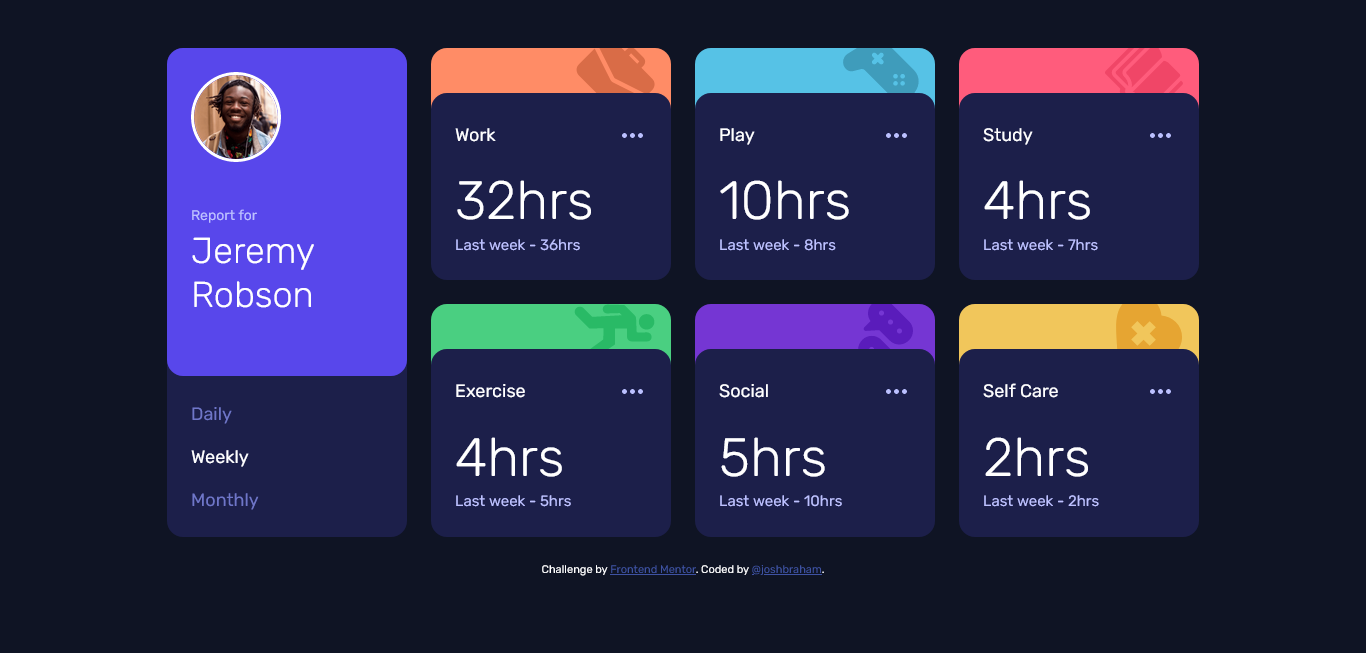
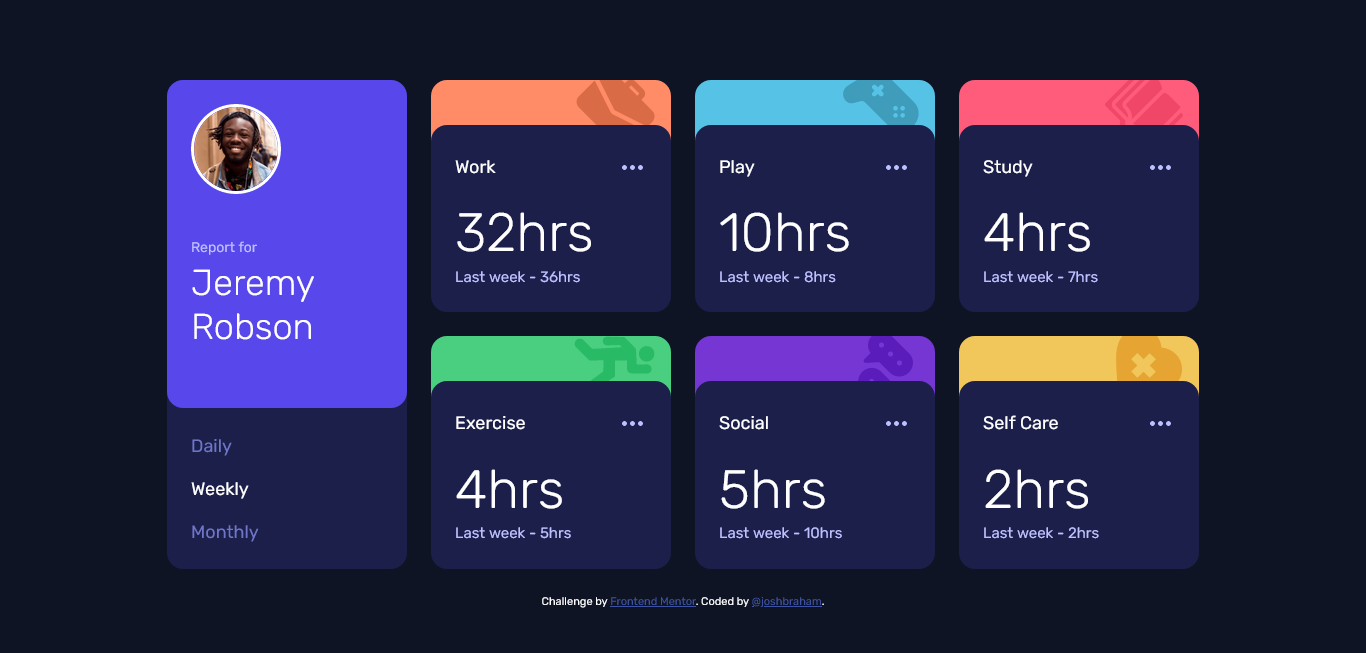
Final touch-ups

diff --git a/index.html b/index.html
@@ -43,7 +43,7 @@
 				<div class="card" data-category="work">
 					<div class="card__header">
 						<h2 class="card-title"></h2>
-						<button class="btn-ellipsis"></button>
+						<button class="btn-ellipsis">More</button>
 					</div>
 					<div class="card__time">
 						<span class="current"></span>
@@ -54,7 +54,7 @@
 				<div class="card" data-category="play">
 					<div class="card__header">
 						<h2 class="card-title"></h2>
-						<button class="btn-ellipsis"></button>
+						<button class="btn-ellipsis">More</button>
 					</div>
 					<div class="card__time">
 						<span class="current"></span>
@@ -65,7 +65,7 @@
 				<div class="card" data-category="study">
 					<div class="card__header">
 						<h2 class="card-title"></h2>
-						<button class="btn-ellipsis"></button>
+						<button class="btn-ellipsis">More</button>
 					</div>
 					<div class="card__time">
 						<span class="current"></span>
@@ -76,7 +76,7 @@
 				<div class="card" data-category="exercise">
 					<div class="card__header">
 						<h2 class="card-title"></h2>
-						<button class="btn-ellipsis"></button>
+						<button class="btn-ellipsis">More</button>
 					</div>
 					<div class="card__time">
 						<span class="current"></span>
@@ -87,7 +87,7 @@
 				<div class="card" data-category="social">
 					<div class="card__header">
 						<h2 class="card-title"></h2>
-						<button class="btn-ellipsis"></button>
+						<button class="btn-ellipsis">More</button>
 					</div>
 					<div class="card__time">
 						<span class="current"></span>
@@ -98,7 +98,7 @@
 				<div class="card" data-category="self care">
 					<div class="card__header">
 						<h2 class="card-title"></h2>
-						<button class="btn-ellipsis"></button>
+						<button class="btn-ellipsis">More</button>
 					</div>
 					<div class="card__time">
 						<span class="current"></span>

diff --git a/styles/style.css b/styles/style.css
@@ -24,7 +24,7 @@
 }
 
 body {
-	padding-top: 3rem;
+	padding-top: 5rem;
 	background-color: var(--clr-neutral-900);
 	color: var(--clr-neutral-100);
 	font-size: 18px;
@@ -167,6 +167,7 @@ body {
 	width: 25px;
 	height: 100%;
 	border: none;
+	color: transparent;
 	background: no-repeat url(../images/icon-ellipsis.svg);
 	background-position: top 50% left 0;
 	cursor: pointer;
